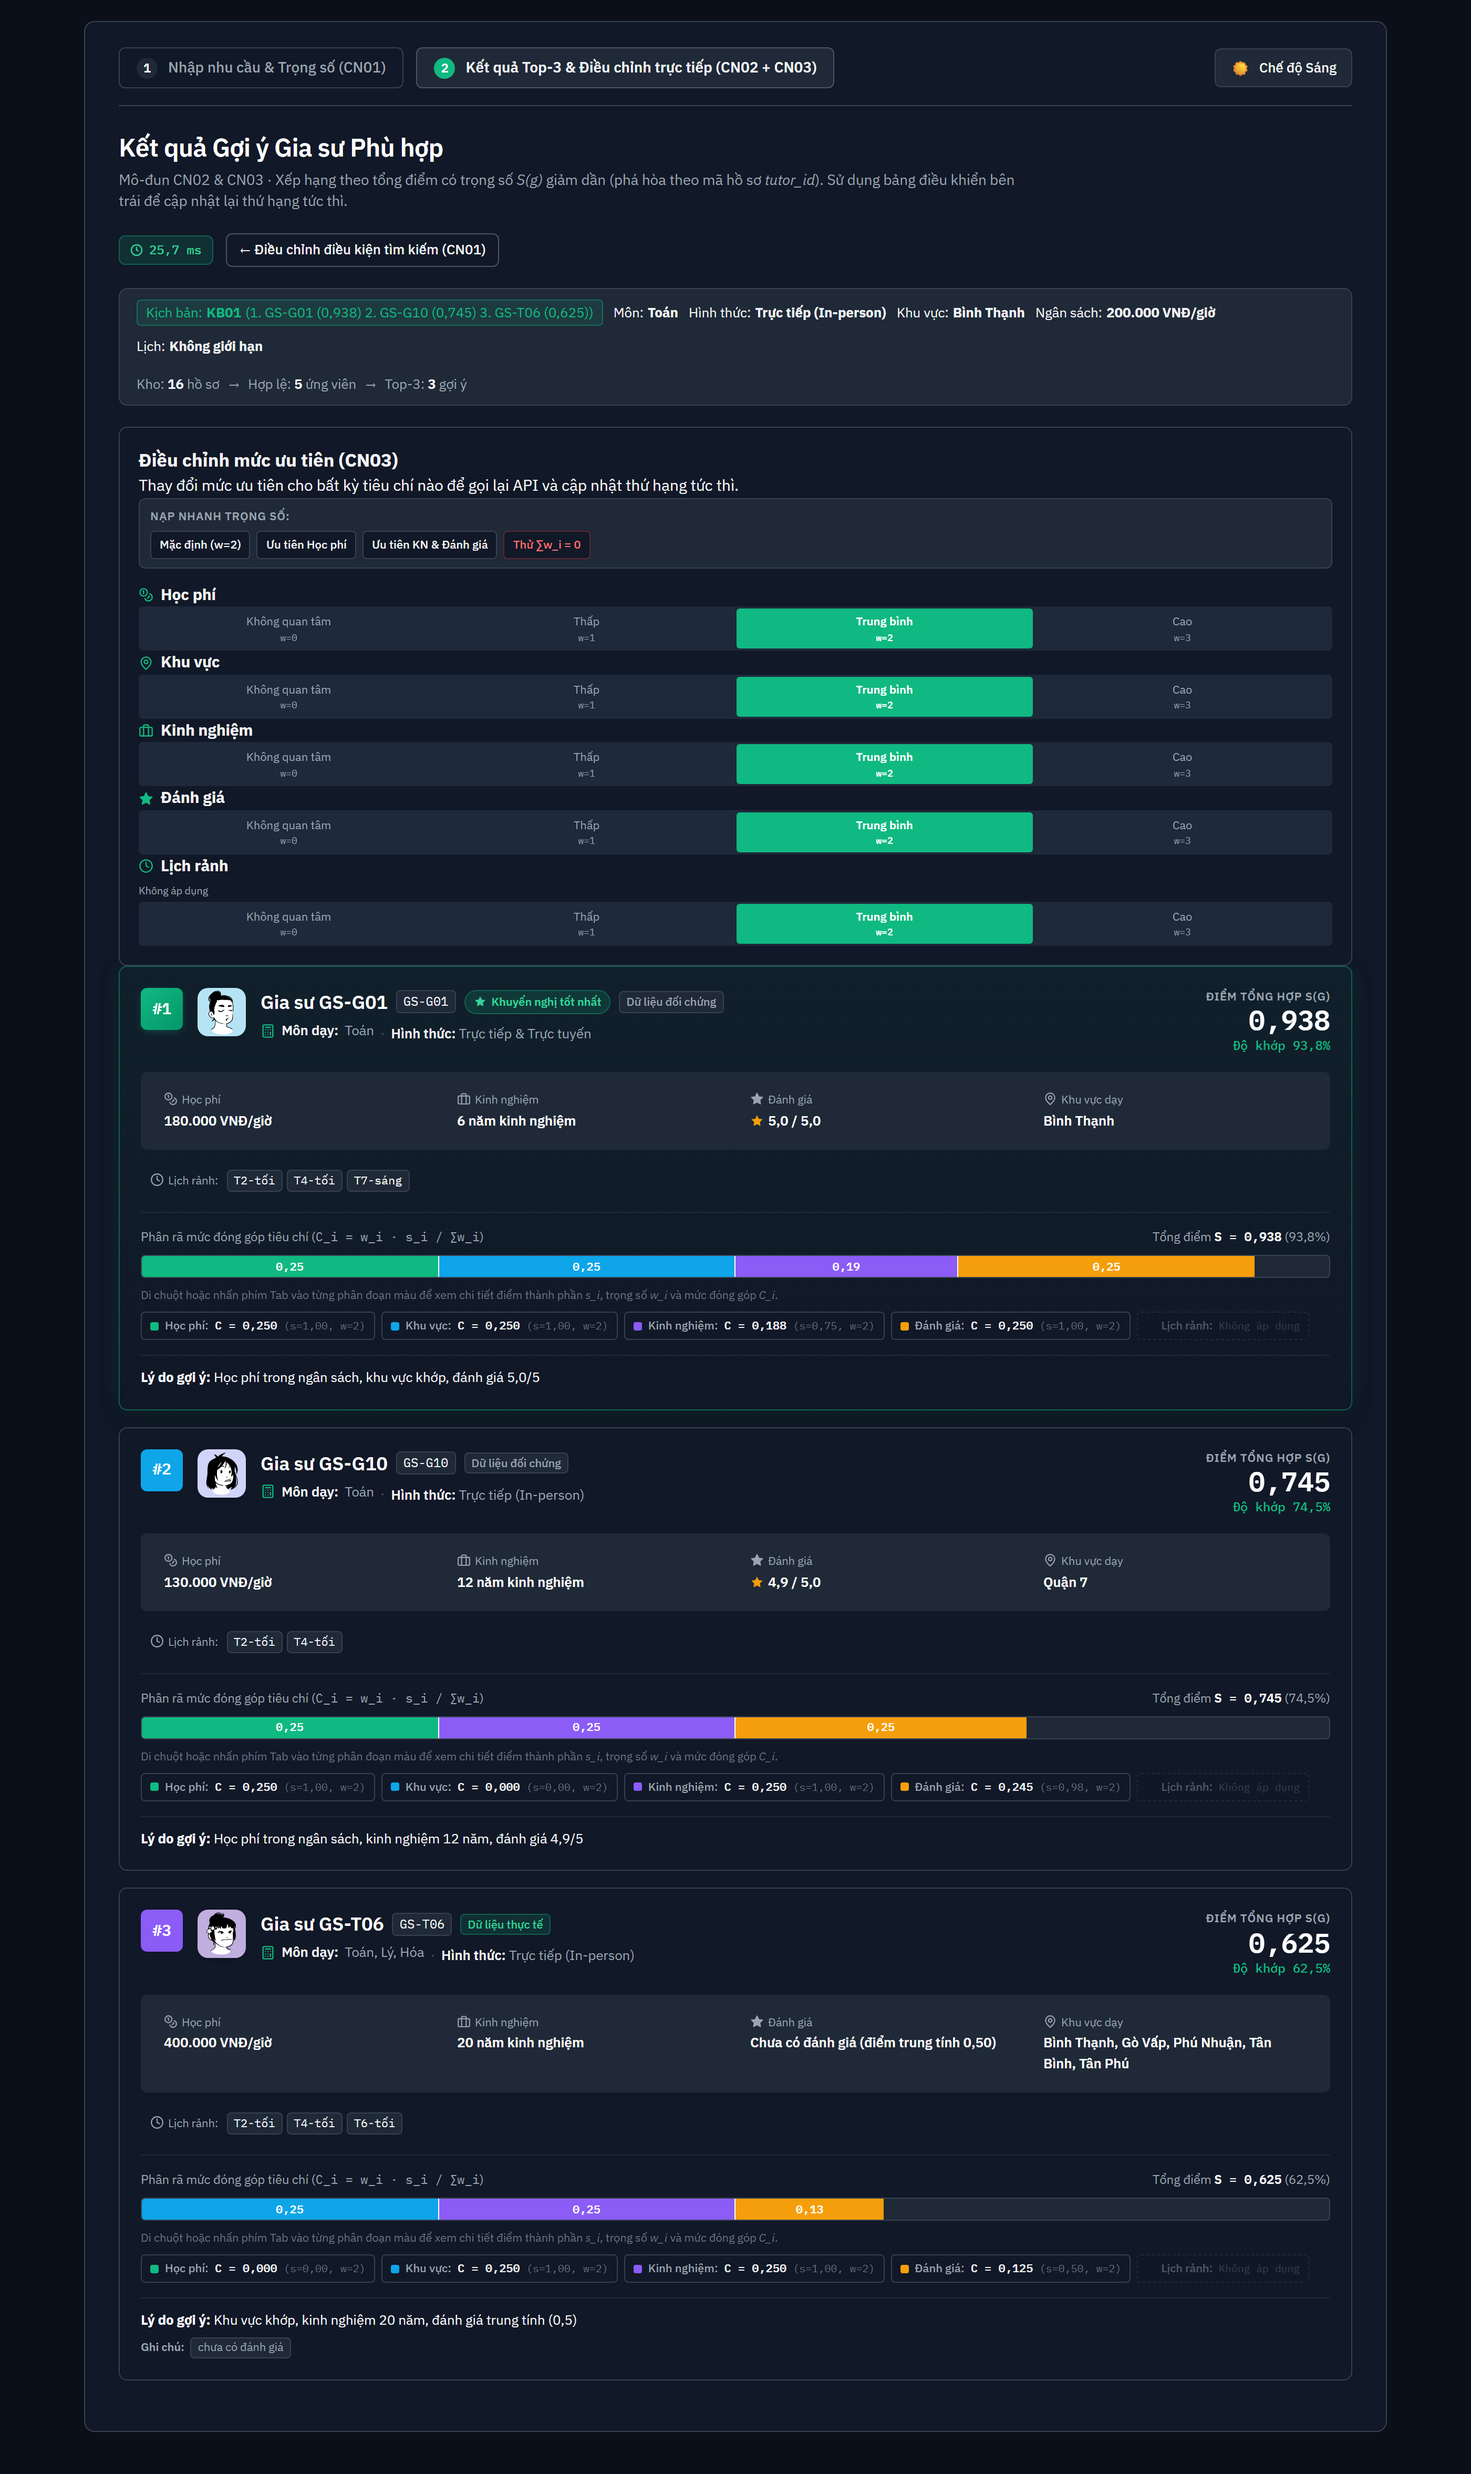
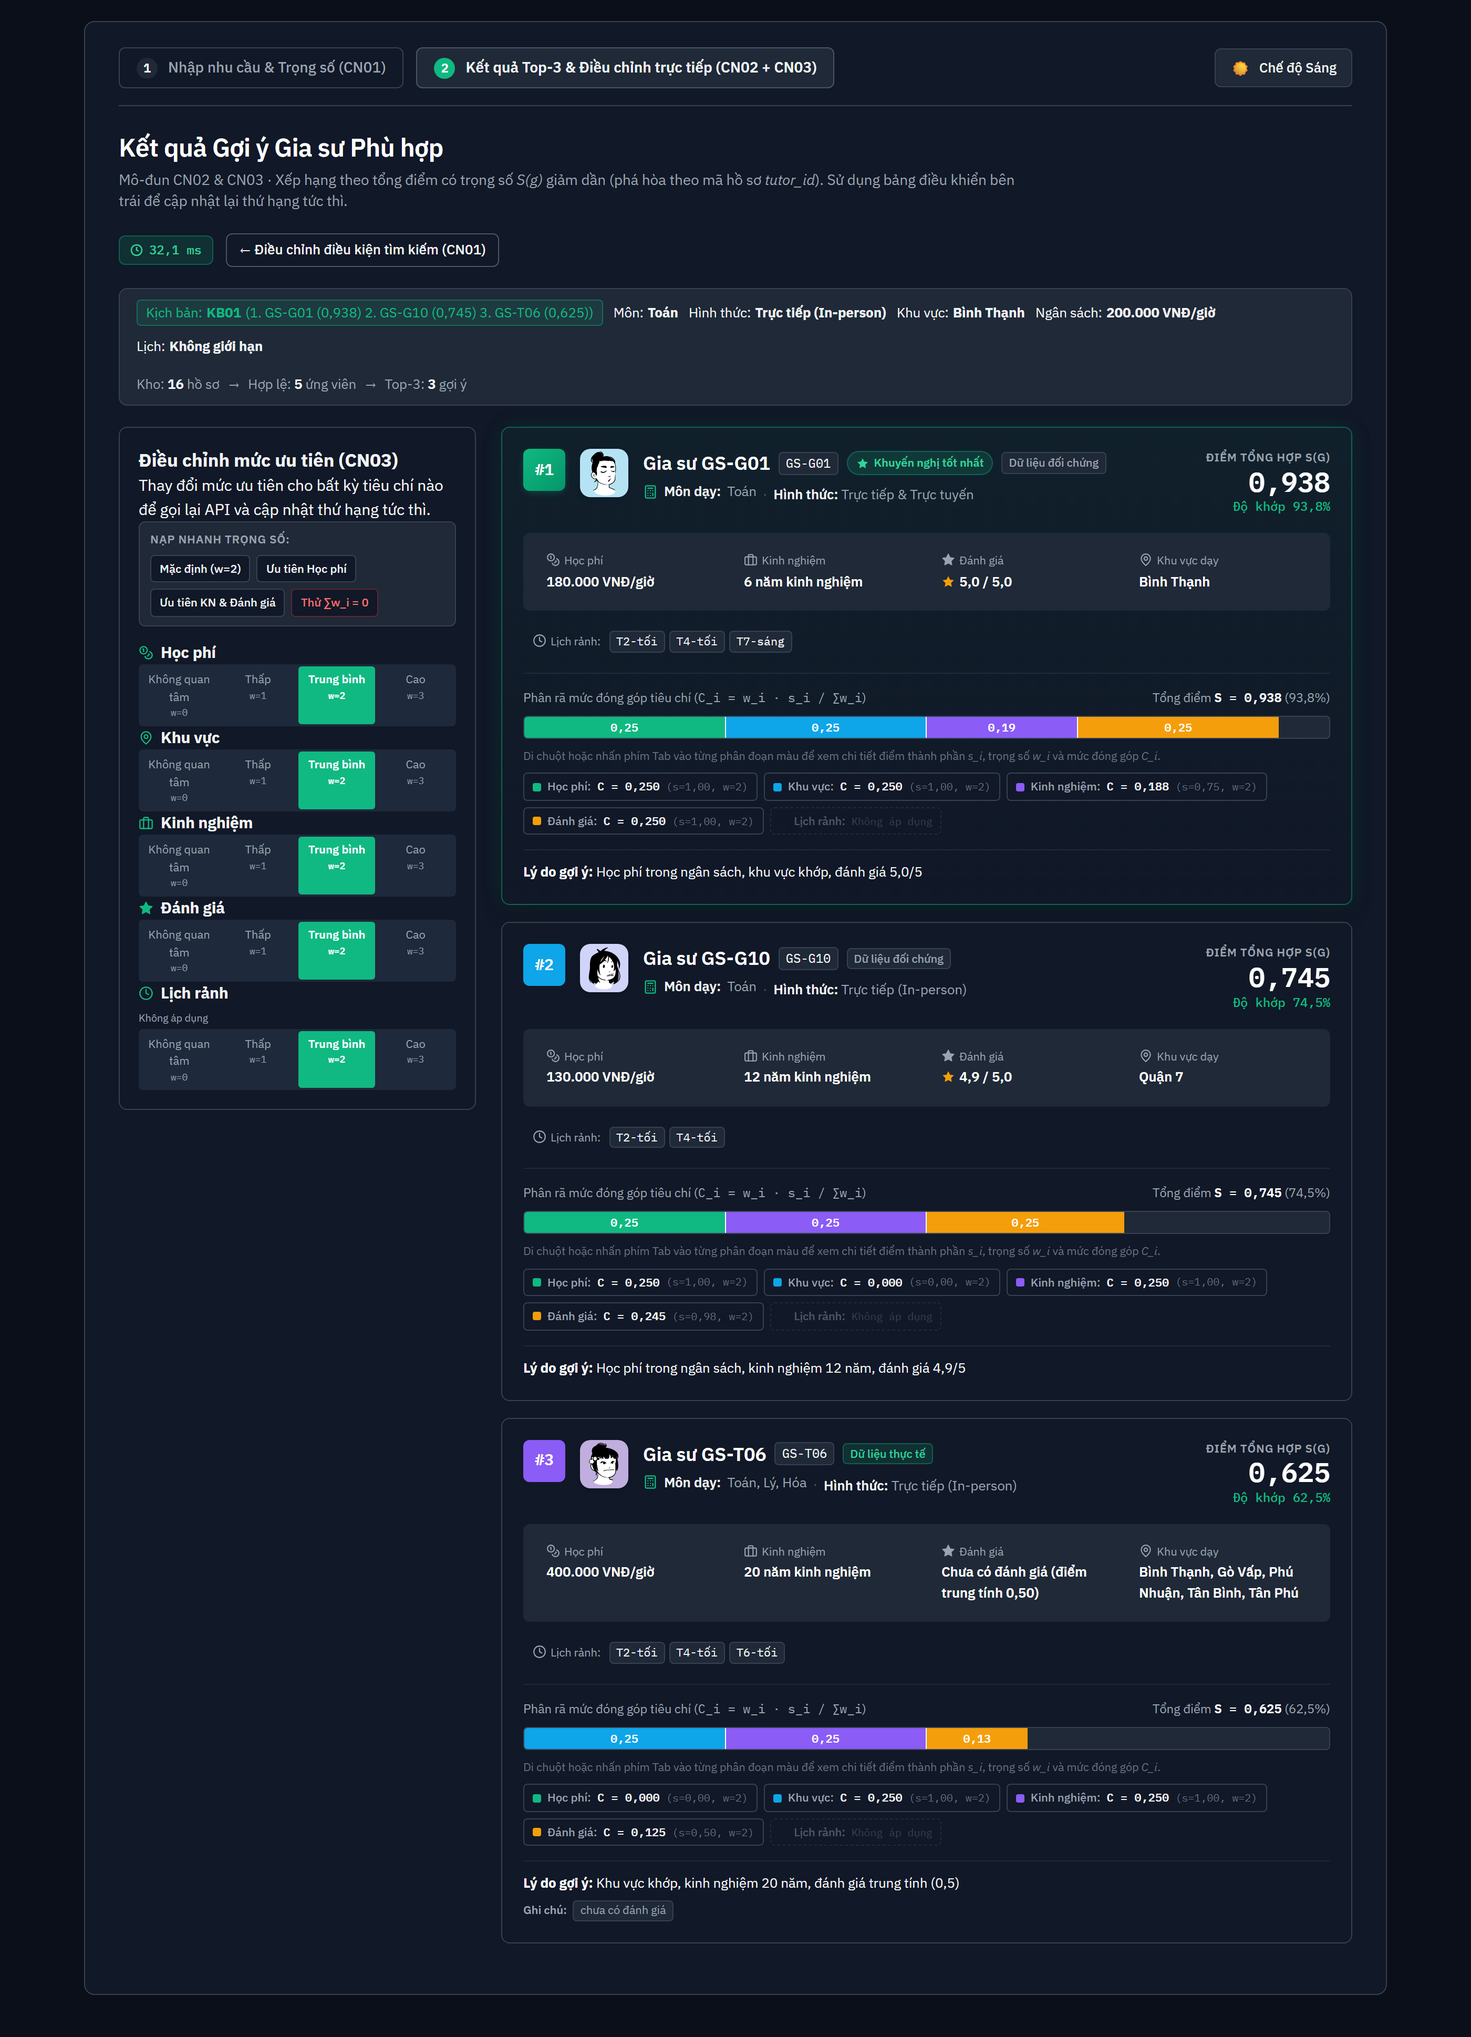
fix(frontend): fix CN03 sticky rail overlap bug by enforcing 2-column grid and mobile static position

diff --git a/frontend/src/App.css b/frontend/src/App.css
@@ -795,17 +795,16 @@
 }
 
 /* ---------- 9. ResultPage: 2-Column Workbench Layout ---------- */
+.results-workbench,
 .result-workbench-layout {
   display: grid;
   grid-template-columns: 340px minmax(0, 1fr);
-  gap: 20px;
+  gap: 24px;
   align-items: start;
 }
 
-@media (max-width: 1024px) {
-  .result-workbench-layout {
-    grid-template-columns: 1fr;
-  }
+.results-main {
+  min-width: 0;
 }
 
 /* Sticky Left CN03 Control Rail */
@@ -816,6 +815,18 @@
   background-color: var(--surface);
   border: 1px solid var(--border);
   border-radius: 8px;
+  z-index: 5;
+}
+
+@media (max-width: 1024px) {
+  .results-workbench,
+  .result-workbench-layout {
+    grid-template-columns: 1fr;
+  }
+
+  .cn03-rail {
+    position: static;
+  }
 }
 
 .cn03-rail-head {
